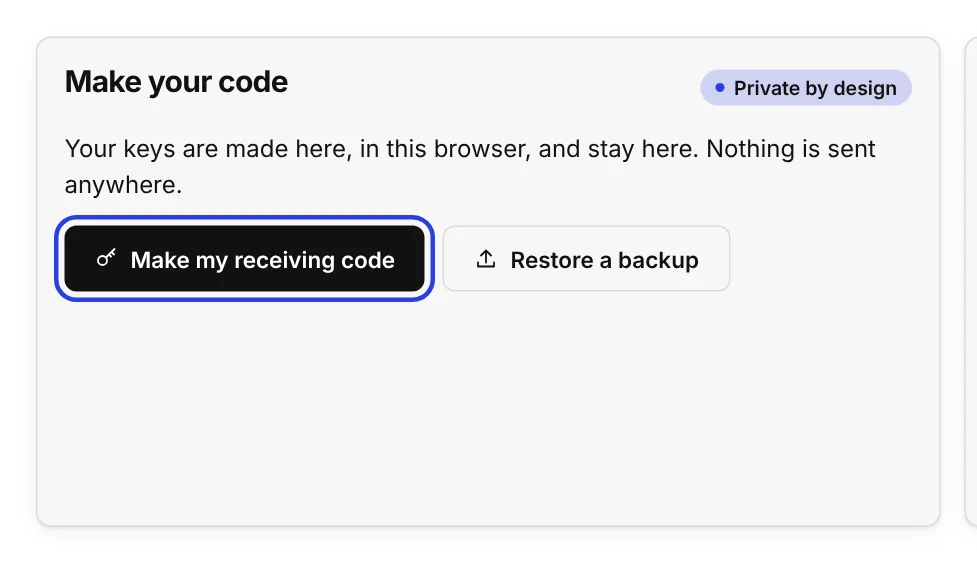
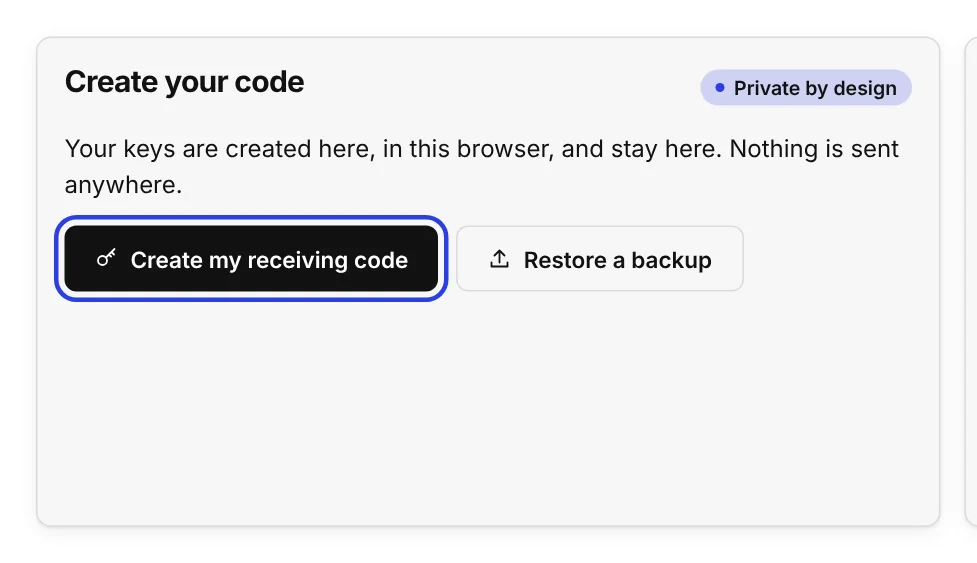
Receive: Create my receiving code (was Make)

diff --git a/web/app.js b/web/app.js
@@ -194,7 +194,7 @@
         <li><span class="ico todo">2</span><div><div class="strong">In the Naira-Reach folder, run <code>npm.cmd run app</code></div><div class="small muted">On Mac or Linux: <code>npm run app</code></div></div><span></span></li>
         <li><span class="ico todo">3</span><div><div class="strong">Open <a href="http://localhost:8787">http://localhost:8787</a></div><div class="small muted">Keep the terminal open while you use it.</div></div><span></span></li>
       </ol>
-      ${callout('Getting paid? You don\'t need any of this. <a href="#/get/code">Go to Receive</a> to make your receiving code.', "neutral")}
+      ${callout('Getting paid? You don\'t need any of this. <a href="#/get/code">Go to Receive</a> to create your receiving code.', "neutral")}
     </section>`;
   }
 
@@ -670,10 +670,10 @@
       })}
       <section class="grid-2" aria-label="Receiving code">
         <article class="card stack">
-          <div class="card-head" style="margin-bottom:0"><h2>Make your code</h2>${badge("Private by design")}</div>
-          <p>Your keys are made here, in this browser, and stay here. Nothing is sent anywhere.</p>
+          <div class="card-head" style="margin-bottom:0"><h2>Create your code</h2>${badge("Private by design")}</div>
+          <p>Your keys are created here, in this browser, and stay here. Nothing is sent anywhere.</p>
           <div class="row">
-            <button class="btn btn-primary" type="button" id="make-keys">${icon("key")}Make my receiving code</button>
+            <button class="btn btn-primary" type="button" id="make-keys">${icon("key")}Create my receiving code</button>
             <button class="btn btn-secondary" type="button" id="restore">${icon("upload")}Restore a backup</button>
           </div>
         </article>
@@ -711,7 +711,7 @@
     const actions = `<a class="btn btn-secondary" href="https://app.textilecredit.com/" target="_blank" rel="noopener">${icon("external")}Withdraw NGN to bank</a>`;
     if (!keys) {
       return `${head({ title: "Payouts", lede: "Open a receipt from your client to see the payout and move the naira.", actions })}
-      <section class="card">${empty("code", `<p>Make your receiving code first. Payouts can only be opened with the keys behind it.</p><a class="btn btn-primary btn-sm" href="#/get/code">Make my receiving code</a>`)}</section>`;
+      <section class="card">${empty("code", `<p>Create your receiving code first. Payouts can only be opened with the keys behind it.</p><a class="btn btn-primary btn-sm" href="#/get/code">Create my receiving code</a>`)}</section>`;
     }
     const state = (p) => {
       const l = live[p.stealthAddress];
@@ -829,7 +829,7 @@
       const keys = store.get("keys", null);
       sideCard.innerHTML = keys
         ? `<span class="label">Your receiving code</span><span class="mono small clip">${esc(keys.metaAddress)}</span><a class="small" href="#/get/code">Copy or back up</a>`
-        : `<span class="label">Your receiving code</span><span class="strong">Not made yet</span><a class="small" href="#/get/code">Make one</a>`;
+        : `<span class="label">Your receiving code</span><span class="strong">Not created yet</span><a class="small" href="#/get/code">Create one</a>`;
       return;
     }
     const ses = activeSession();

diff --git a/web/guide.js b/web/guide.js
@@ -139,13 +139,13 @@ window.NR_GUIDES = {
     lede: "How a freelancer makes a receiving code, opens a payout and moves the naira, one step at a time.",
     steps: [
       {
-        title: "Make your receiving code",
+        title: "Create your receiving code",
         img: "receive-1-make.webp",
-        alt: "The Make your code card with the Make my receiving code button outlined",
+        alt: "The Create your code card with the Create my receiving code button outlined",
         intro: "Instead of a wallet address, you give clients a receiving code. Each payment then lands at a brand-new address only you can open, so nobody can add up what you earn.",
         steps: [
           "Click <strong>Receive</strong> at the top left.",
-          "Press <strong>Make my receiving code</strong>.",
+          "Press <strong>Create my receiving code</strong>.",
         ],
         tip: "Your keys are made in this browser and stay in it. Nothing is sent anywhere, and you don't need a wallet or any money to start.",
       },

diff --git a/README.md b/README.md
@@ -169,7 +169,7 @@ The site has two sides, chosen at the top left: **Send** for the client and **Re
 
 This side runs entirely in the freelancer's browser, with or without the agent running. Their keys never leave it.
 
-1. **Make my receiving code.** The keys are made in the browser and sent nowhere.
+1. **Create my receiving code.** The keys are created in the browser and sent nowhere.
 2. **Back up my keys.** This downloads a file. Whoever has it can open the payouts, so it stays private. **Restore a backup** brings the keys into another browser.
 3. **Copy code** and send it to the client. It is not a wallet address, and nobody can use it to look up what you've been paid.
 4. **Open a receipt** on **Payouts** when the client sends one. It only opens if the payout was made to your code.
@@ -198,9 +198,9 @@ npm run reach -- check
 
 Result: a checklist with ✓ for what is ready and ✗ with the next step for what is not.
 
-### 4. Freelancer: make a receiving code
+### 4. Freelancer: create a receiving code
 
-On the website: **Receive → Receiving code → Make my receiving code**, then **Back up my keys**.
+On the website: **Receive → Receiving code → Create my receiving code**, then **Back up my keys**.
 
 Or on the freelancer's own device:
 
